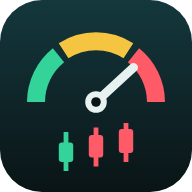
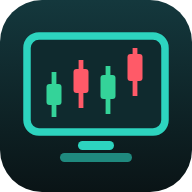
圖示換成螢幕裡的 K 線
Claude-Session: https://claude.ai/code/session_01RPvYGFXRRoVrSCzdvTNVhL

Changed region(s): [[0.0938, 0.1562, 0.9062, 0.9062]]

diff --git a/index.html b/index.html
@@ -10,11 +10,11 @@
 <meta property="og:description" content="台股大盤情勢燈號、個股趨勢判斷、籌碼、基本面、強弱勢排行。">
 <meta name="theme-color" content="#0a1416">
 <!-- 圖示網址帶版本號：換圖的時候把 v 加一，瀏覽器才會重抓（分頁圖示的快取特別頑固） -->
-<link rel="icon" href="favicon.svg?v=4" type="image/svg+xml">
-<link rel="icon" href="favicon-32.png?v=4" sizes="32x32" type="image/png">
-<link rel="apple-touch-icon" href="icon-180.png?v=4">
-<link rel="manifest" href="manifest.json?v=4">
-<meta property="og:image" content="https://bocby413.github.io/stock-trend/icon-512.png?v=4">
+<link rel="icon" href="favicon.svg?v=5" type="image/svg+xml">
+<link rel="icon" href="favicon-32.png?v=5" sizes="32x32" type="image/png">
+<link rel="apple-touch-icon" href="icon-180.png?v=5">
+<link rel="manifest" href="manifest.json?v=5">
+<meta property="og:image" content="https://bocby413.github.io/stock-trend/icon-512.png?v=5">
 <style>
 /* 深色青綠的儀表板配色。漲跌顏色照台股習慣：紅漲、綠跌 */
 :root{
